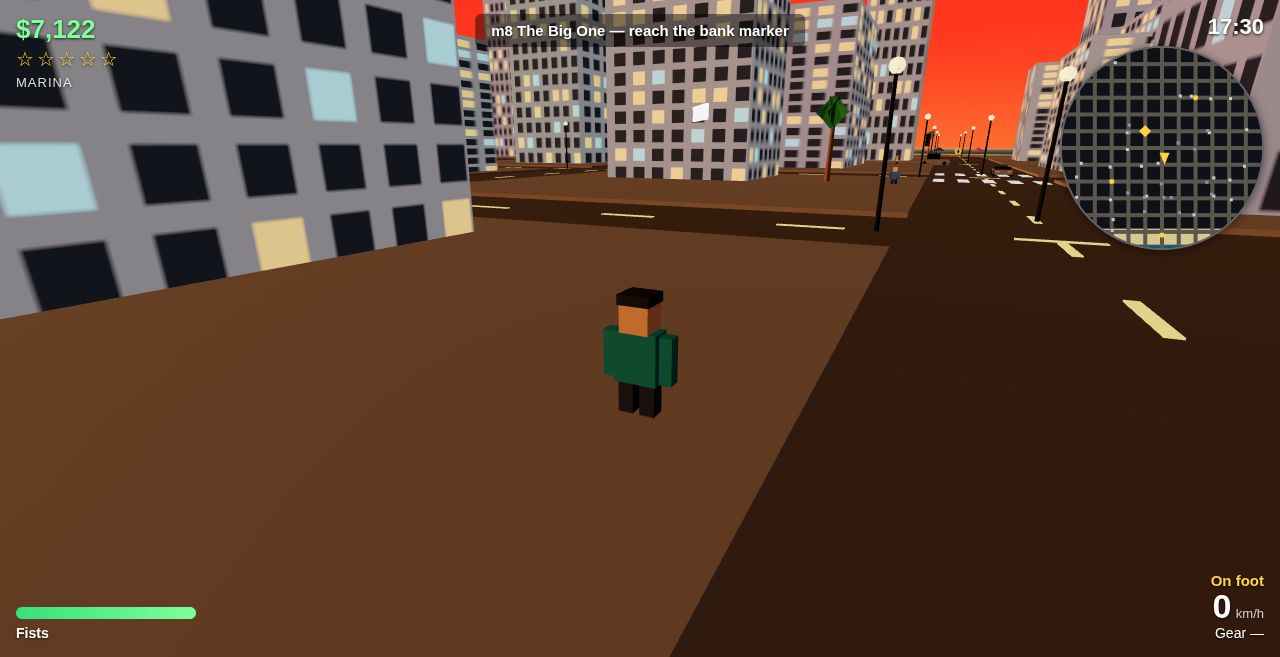
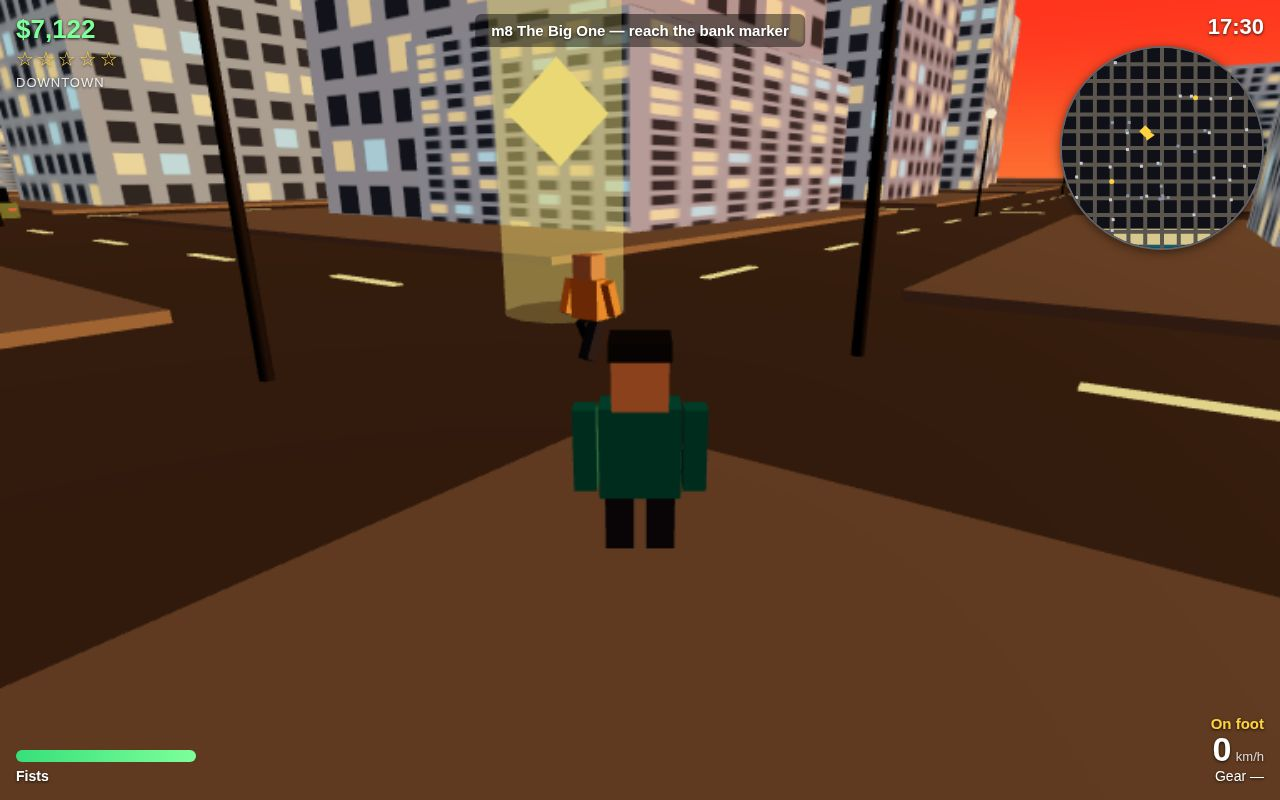
3d-polish: brighter police light bars + glow, closer foot cam, fix sun-coin save/load double-pay, retake 4 screenshots
- police.js: light bars bigger (0.8x0.3x0.7) + brighter (emissive 4/0.5),
  additive red/blue glow sprites pulsing with the flash phase, white roof
  panel + hood stripe so police cars read at a glance (cover showed them
  as dark blobs).
- main.js: load the save BEFORE the systems so Missions.buildCoins() knows
  which sun coins are already collected — previously a collected coin
  re-spawned and paid twice on every reload (found by the playtest).
- main.js: ?shot=foot orbit camera 5.2 (was 7.5) so Dante fills the frame.
- Screenshots retaken with life in frame: cover police chase at 19 km/h,
  on-foot m8 with ped + bank marker, beach m3 at 108 km/h with taxi,
  night m4 driving at 94 km/h. Full playtest run 22: 60/60 PASS, 0 console
  errors, 0 failed requests.

diff --git a/game/src/police.js b/game/src/police.js
@@ -15,6 +15,23 @@ function angleDiff(a, b) {
   return d;
 }
 
+// Shared radial-gradient texture for the police light-bar glow sprites.
+let _glowTex = null;
+function makeGlowTexture() {
+  if (_glowTex) return _glowTex;
+  const c = document.createElement('canvas');
+  c.width = 64; c.height = 64;
+  const g = c.getContext('2d');
+  const grad = g.createRadialGradient(32, 32, 2, 32, 32, 30);
+  grad.addColorStop(0, 'rgba(255,255,255,1)');
+  grad.addColorStop(0.4, 'rgba(255,255,255,0.5)');
+  grad.addColorStop(1, 'rgba(255,255,255,0)');
+  g.fillStyle = grad;
+  g.fillRect(0, 0, 64, 64);
+  _glowTex = new THREE.CanvasTexture(c);
+  return _glowTex;
+}
+
 export class Police {
   constructor(scene, city, ctx) {
     this.scene = scene;
@@ -63,17 +80,37 @@ export class Police {
       door.position.set(sx * (car.model.w / 2 + 0.01), 0.55, 0);
       car.group.add(door);
     }
-    // Light bar: red + blue emissive boxes on the roof.
-    const redMat = new THREE.MeshStandardMaterial({ color: 0x330000, emissive: 0xff2020, emissiveIntensity: 2 });
-    const blueMat = new THREE.MeshStandardMaterial({ color: 0x000033, emissive: 0x2244ff, emissiveIntensity: 0.2 });
-    const barGeo = new THREE.BoxGeometry(0.55, 0.16, 0.5);
+    // Light bar: bigger, brighter red + blue emissive boxes on the roof,
+    // with additive glow sprites so the car reads as police at a glance
+    // (polish: the cover shot showed the old small bars as dark blobs).
+    const redMat = new THREE.MeshStandardMaterial({ color: 0x330000, emissive: 0xff2020, emissiveIntensity: 4 });
+    const blueMat = new THREE.MeshStandardMaterial({ color: 0x000033, emissive: 0x2244ff, emissiveIntensity: 0.5 });
+    const barGeo = new THREE.BoxGeometry(0.8, 0.3, 0.7);
     const red = new THREE.Mesh(barGeo, redMat);
-    red.position.set(-0.3, car.model.h * 1.08, 0);
+    red.position.set(-0.45, car.model.h * 1.25, 0);
     const blue = new THREE.Mesh(barGeo, blueMat);
-    blue.position.set(0.3, car.model.h * 1.08, 0);
+    blue.position.set(0.45, car.model.h * 1.25, 0);
     car.group.add(red, blue);
+    // White roof panel + hood stripe: the near-black body reads as a
+    // civilian car from the front, the white panels say police.
+    const whiteMat = new THREE.MeshStandardMaterial({ color: 0xe8e8e8, roughness: 0.4, metalness: 0.3 });
+    const roofPanel = new THREE.Mesh(new THREE.BoxGeometry(car.model.w * 0.82, 0.05, car.model.l * 0.34), whiteMat);
+    roofPanel.position.set(0, car.model.h * 1.125, 0);
+    car.group.add(roofPanel);
+    const hood = new THREE.Mesh(new THREE.BoxGeometry(car.model.w * 0.8, 0.05, car.model.l * 0.3), whiteMat);
+    hood.position.set(0, 0.55 + car.model.h * 0.275 + 0.03, car.model.l * 0.28);
+    car.group.add(hood);
+    // Glow sprites (cheap additive quads, no extra lights).
+    const glowTex = makeGlowTexture();
+    const redGlow = new THREE.Sprite(new THREE.SpriteMaterial({ map: glowTex, color: 0xff2a2a, transparent: true, opacity: 0.9, blending: THREE.AdditiveBlending, depthWrite: false }));
+    redGlow.scale.set(2.6, 1.5, 1);
+    redGlow.position.copy(red.position);
+    const blueGlow = new THREE.Sprite(new THREE.SpriteMaterial({ map: glowTex, color: 0x2a55ff, transparent: true, opacity: 0.15, blending: THREE.AdditiveBlending, depthWrite: false }));
+    blueGlow.scale.set(2.6, 1.5, 1);
+    blueGlow.position.copy(blue.position);
+    car.group.add(redGlow, blueGlow);
     this.scene.add(car.group); // Vehicle already added it; add() again is a no-op move
-    const pc = { car, redMat, blueMat, hp: 100, ramCooldown: 0, leaving: false };
+    const pc = { car, redMat, blueMat, redGlow, blueGlow, hp: 100, ramCooldown: 0, leaving: false };
     this.cars.push(pc);
     return pc;
   }
@@ -122,6 +159,8 @@ export class Police {
       pc.car.speed = 0;
       pc.redMat.emissiveIntensity = 0.1;
       pc.blueMat.emissiveIntensity = 0.1;
+      pc.redGlow.material.opacity = 0.05;
+      pc.blueGlow.material.opacity = 0.05;
       this.addWanted(1);
       return true;
     }
@@ -164,8 +203,10 @@ export class Police {
     const phase = Math.floor(this.flashT / 0.35) % 2 === 0;
     for (const pc of this.cars) {
       if (pc.hp <= 0) continue;
-      pc.redMat.emissiveIntensity = phase ? 2.4 : 0.15;
-      pc.blueMat.emissiveIntensity = phase ? 0.15 : 2.4;
+      pc.redMat.emissiveIntensity = phase ? 4 : 0.5;
+      pc.blueMat.emissiveIntensity = phase ? 0.5 : 4;
+      pc.redGlow.material.opacity = phase ? 0.9 : 0.15;
+      pc.blueGlow.material.opacity = phase ? 0.15 : 0.9;
       if (pc.ramCooldown > 0) pc.ramCooldown -= dt;
     }
 

diff --git a/game/src/main.js b/game/src/main.js
@@ -62,6 +62,11 @@ function getPlayer() {
   };
 }
 
+// Load the save BEFORE the systems: Missions.buildCoins() must know which
+// sun coins are already collected, or they re-spawn and pay twice on reload
+// (polish fix: the coin at the saved position re-collected every load).
+const saved = loadSave();
+
 // --- systems (constructed after the core, wired through closures) ---
 const police = new Police(engine.scene, city, {
   getPlayer,
@@ -79,7 +84,7 @@ const missions = new Missions(engine.scene, city, {
   addMoney: (n) => { money += n; hud.setMoney(money); },
   saveNow: () => saveNow(),
   unlocked: 0,
-  coinsCollected: [],
+  coinsCollected: saved?.coins ?? [],
 });
 const weapons = new Weapons(engine.scene, {
   camera: engine.camera,
@@ -93,8 +98,7 @@ const weapons = new Weapons(engine.scene, {
   onShot: (pos) => { lastShot = pos; lastShotT = simSeconds; },
 });
 
-// --- save ---
-const saved = loadSave();
+// --- save (loaded above, before the systems) ---
 if (saved) {
   money = saved.money;
   player.x = saved.x ?? player.x;
@@ -108,7 +112,6 @@ if (saved) {
     weapons.reserve = saved.weapons.reserve ?? weapons.reserve;
   }
   if (typeof saved.mission === 'number') missions.unlocked = saved.mission;
-  if (Array.isArray(saved.coins)) missions.coinsCollected = new Set(saved.coins);
 }
 engine.setTime(time);
 hud.setMoney(money);
@@ -284,7 +287,8 @@ function updateCamera(dt) {
     if (Math.abs(cam.fov - targetFov) > 0.1) { cam.fov += (targetFov - cam.fov) * Math.min(1, dt * 4); cam.updateProjectionMatrix(); }
   } else {
     // Third-person orbit cam.
-    const d = 7.5, cp = Math.cos(player.camPitch), sp = Math.sin(player.camPitch);
+    // ?shot=foot frames Dante closer so the on-foot shot is not mostly empty road.
+    const d = SHOT === 'foot' ? 5.2 : 7.5, cp = Math.cos(player.camPitch), sp = Math.sin(player.camPitch);
     const tx = player.x - Math.sin(player.camYaw) * d * cp;
     const tz = player.z - Math.cos(player.camYaw) * d * cp;
     const ty = 1.6 + sp * d;
